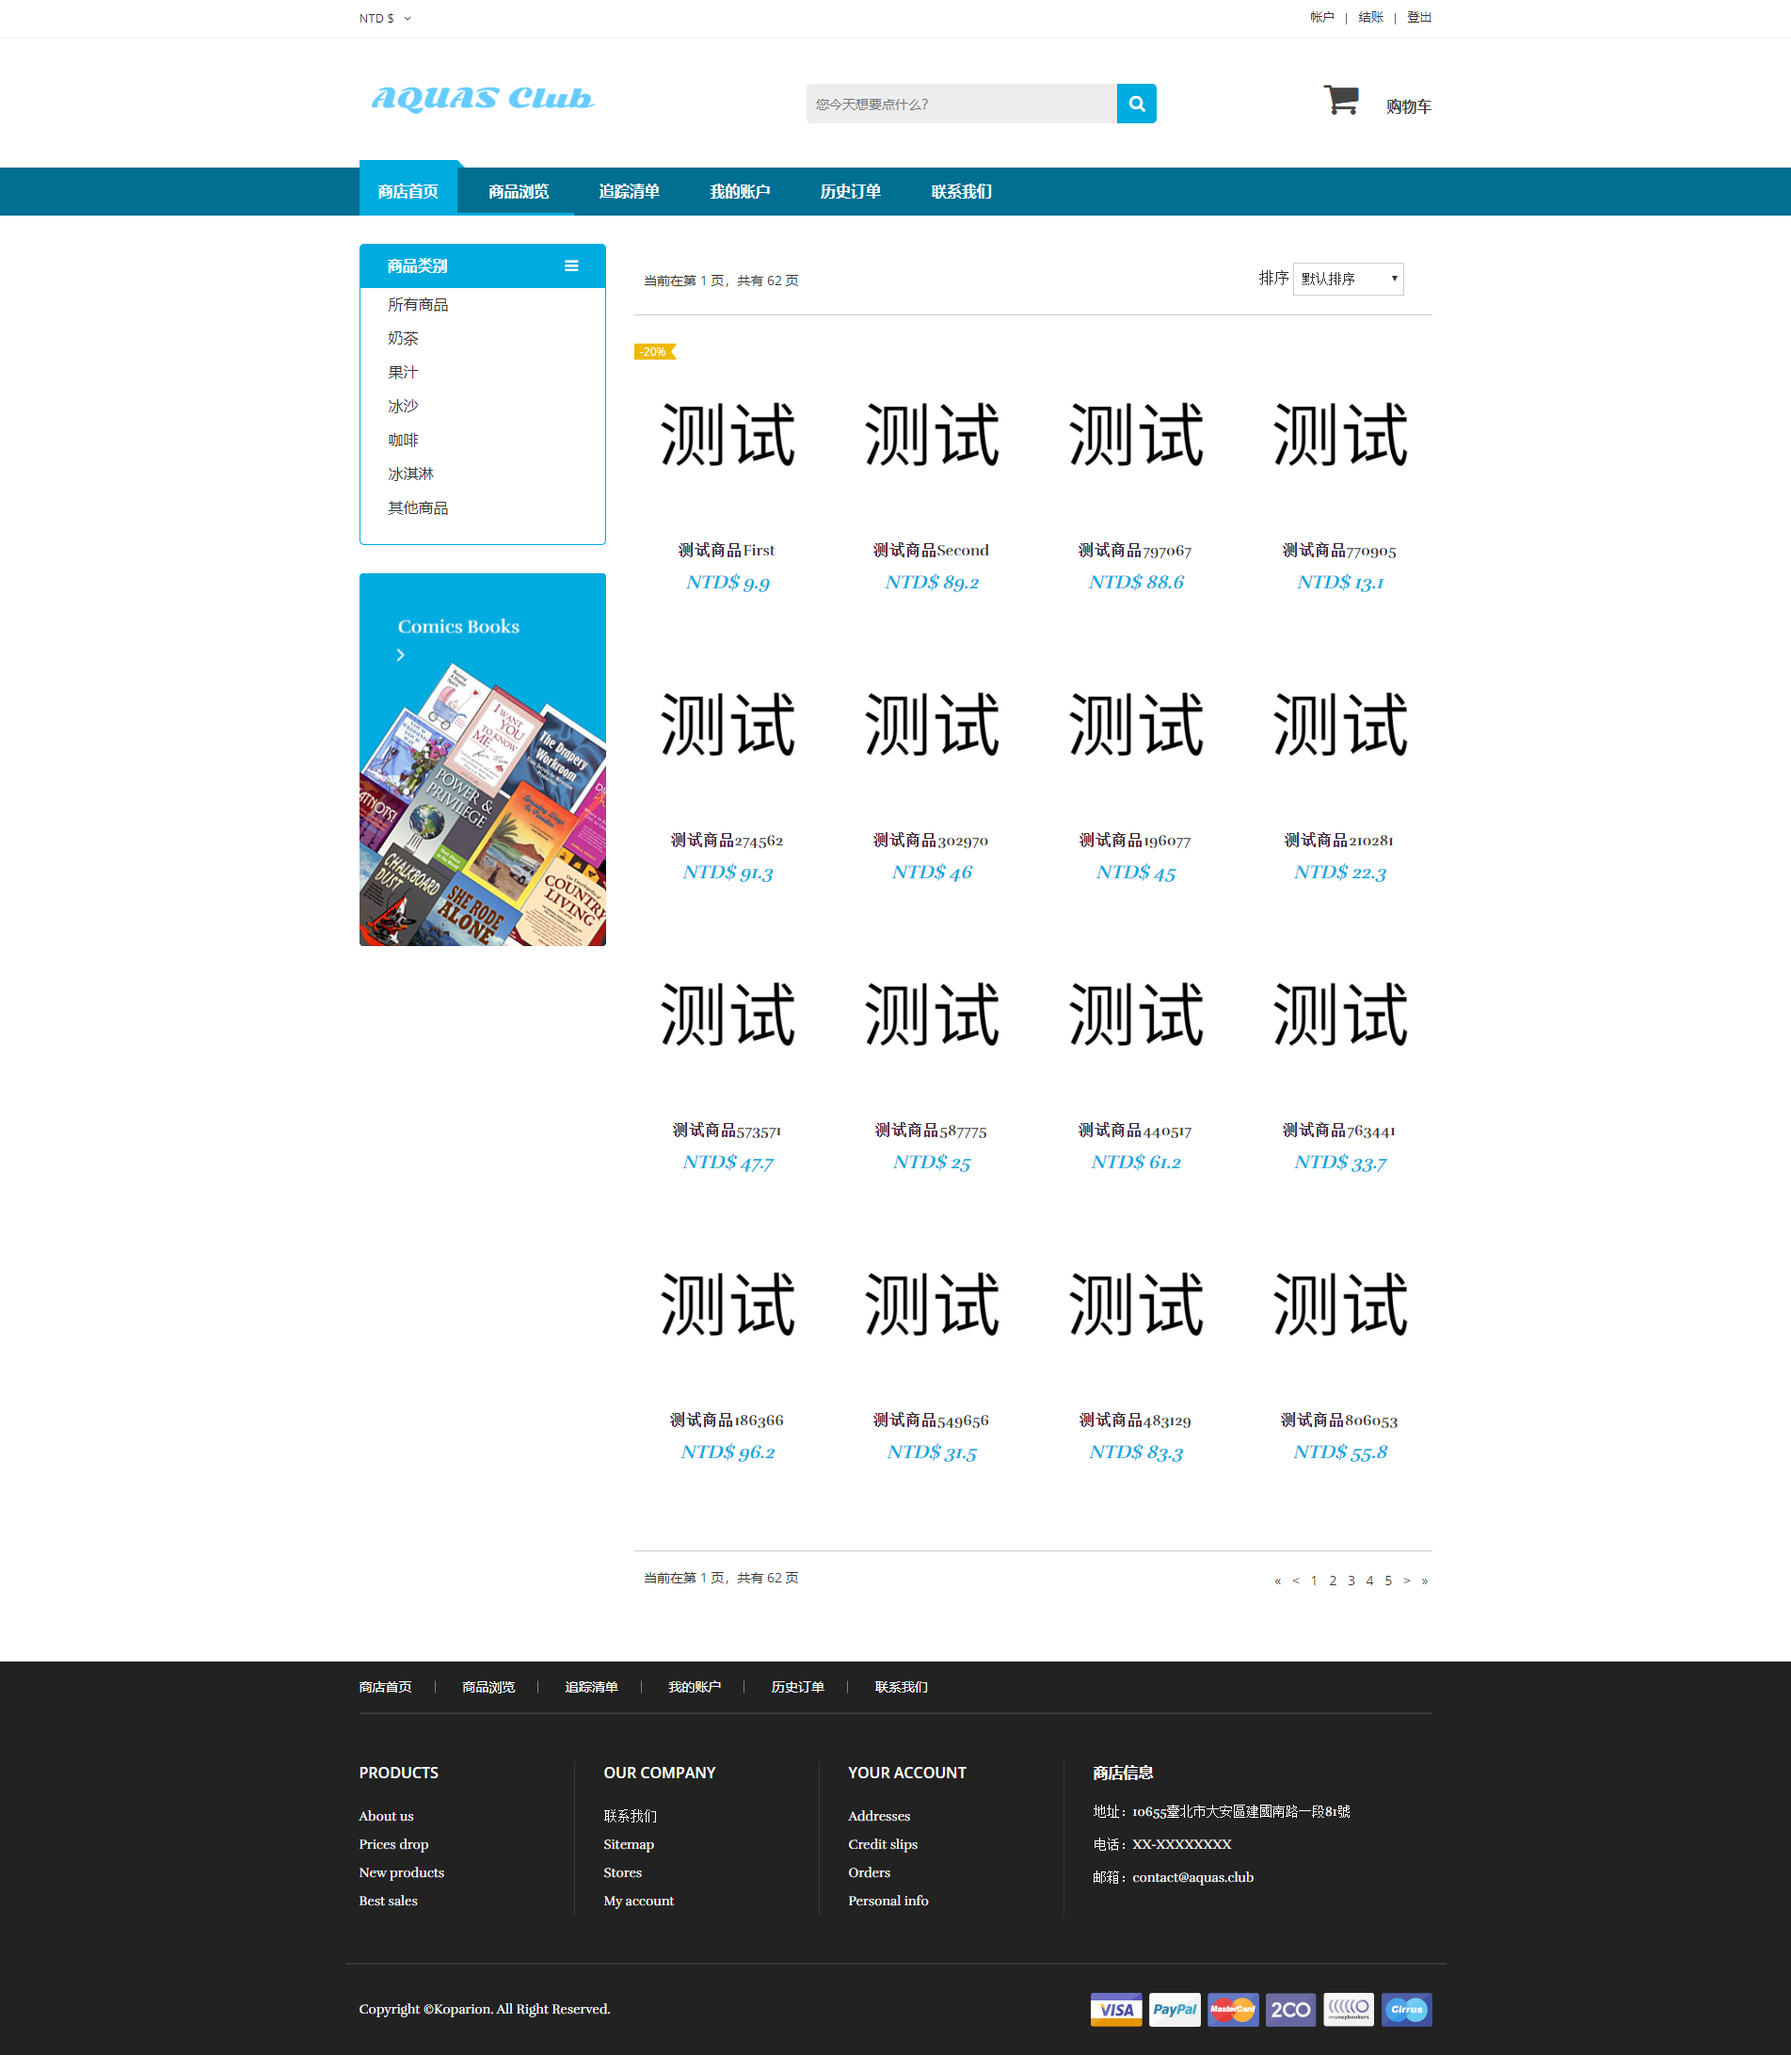
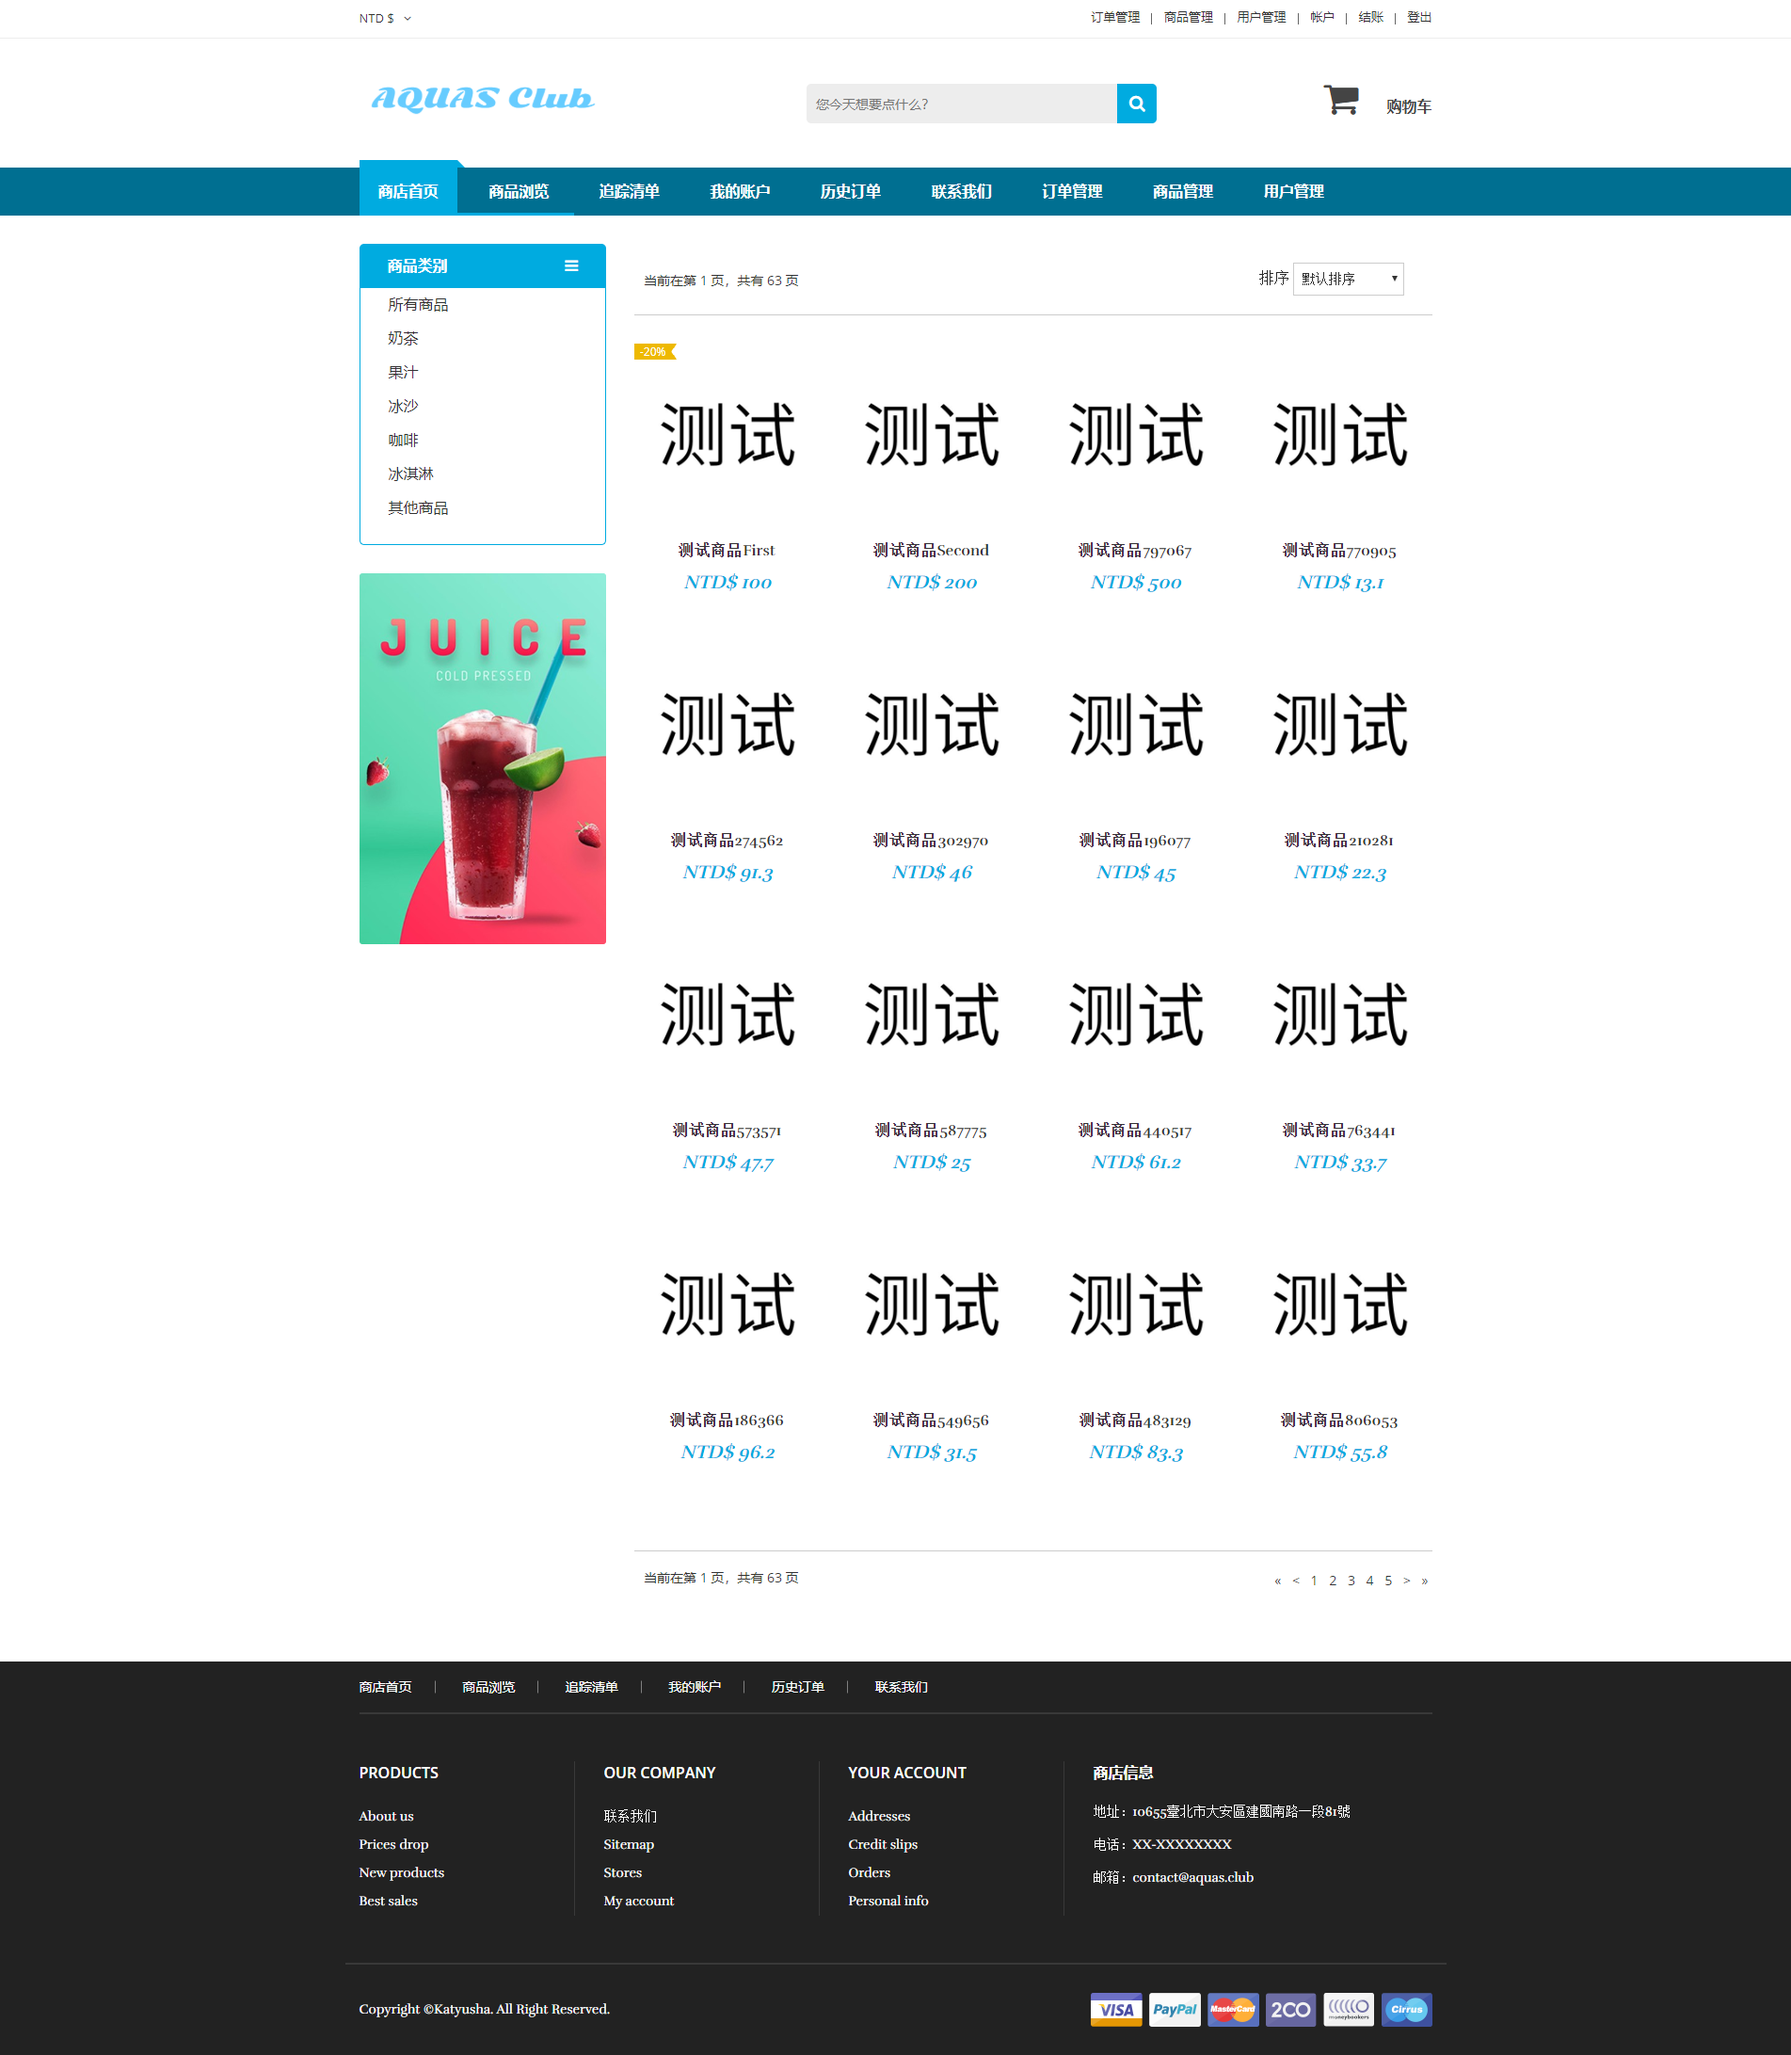
finish item manage

diff --git a/OnlineDrinkOrderSystem/DAL/ItemManager.cs b/OnlineDrinkOrderSystem/DAL/ItemManager.cs
@@ -139,8 +139,8 @@ namespace OnlineDrinkOrderSystem.DAL
         public static bool AlterItemInfo(Item item)
         {
             return DbHelper.Action(string.Format("update Item set " +
-                "Item_Name='{0}' Image_Url='{1}' Description='{2}' Item_Price='{3}' Category_ID='{4}' Click_Counts='{5}' " +
-                "Stock='{6}' Date_added='{7}' Cost='{8}' Sold='{9}' Discount='{10}' where Item_ID='{11}'",
+                "Item_Name='{0}', Image_Url='{1}', Description='{2}', Item_Price='{3}', Category_ID='{4}', Click_Counts='{5}', " +
+                "Stock='{6}', Date_added='{7}', Cost='{8}', Sold='{9}', Discount='{10}' where Item_ID='{11}'",
                 item.Item_Name,
                 item.Image_Url,
                 item.Description,

diff --git a/OnlineDrinkOrderSystem/Controllers/ItemController.cs b/OnlineDrinkOrderSystem/Controllers/ItemController.cs
@@ -26,7 +26,7 @@ namespace OnlineDrinkOrderSystem.Controllers
             return JsonConvert.SerializeObject(item);
         }
 
-        //修改物品信息 TODO debug
+        //修改物品信息
         [HttpPost]
         public string AlterItemInfo(int itemId = 0, string itemName = "", string image = "", string description = "", double price = 0, int categoryId = 0, 
             int clickCount = 0, int stock = 0, DateTime dateAdd=default, double cost = 0, int sold = 0, int discount = 0)

diff --git a/OnlineDrinkOrderSystem/Controllers/HomeController.cs b/OnlineDrinkOrderSystem/Controllers/HomeController.cs
@@ -303,6 +303,9 @@ namespace OnlineDrinkOrderSystem.Controllers
                 {
                     ViewData["iteminfo"] = ItemManager.GetItem(itemId);
                 }
+                //获取商品类别
+                List<Category> categories = ItemManager.GetCategoryList();
+                ViewData["categories"] = categories;
 
                 return View();
             }
